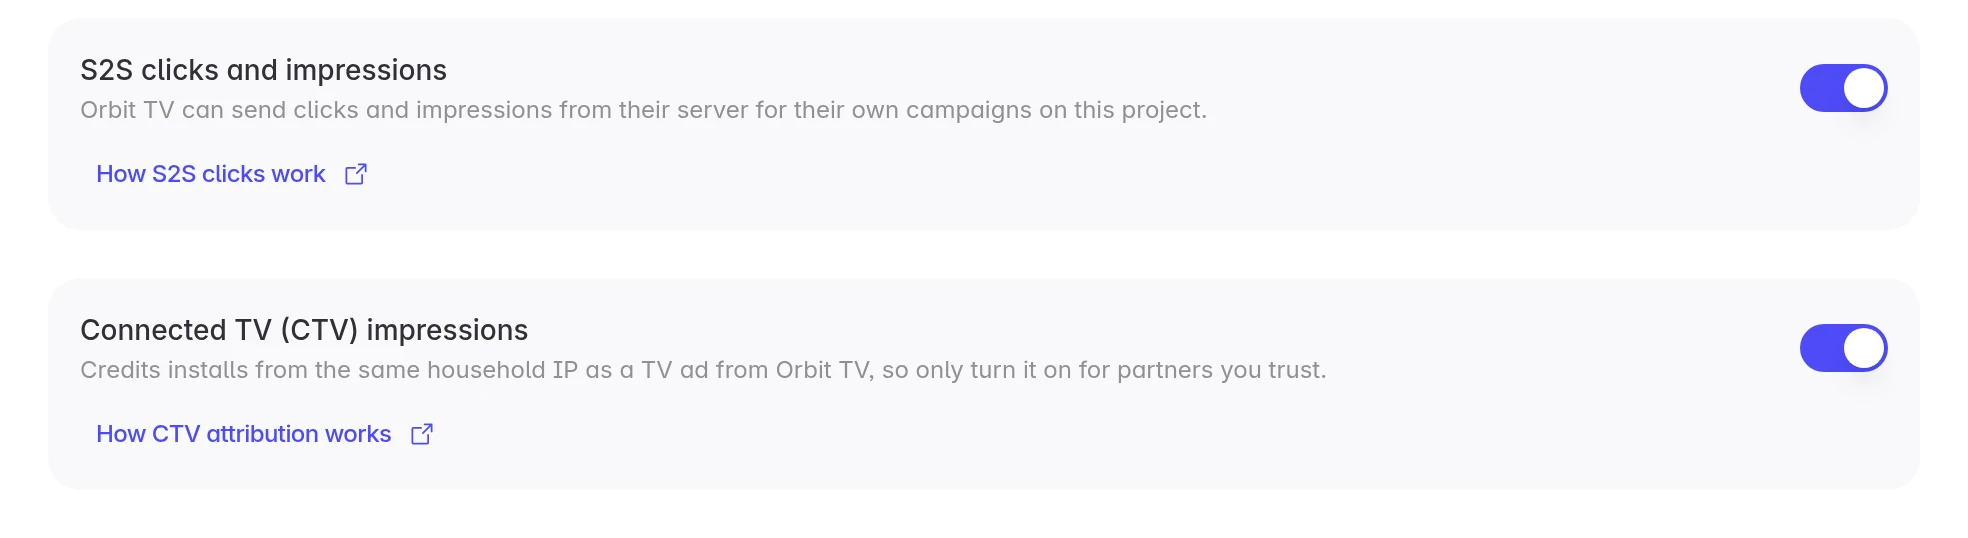
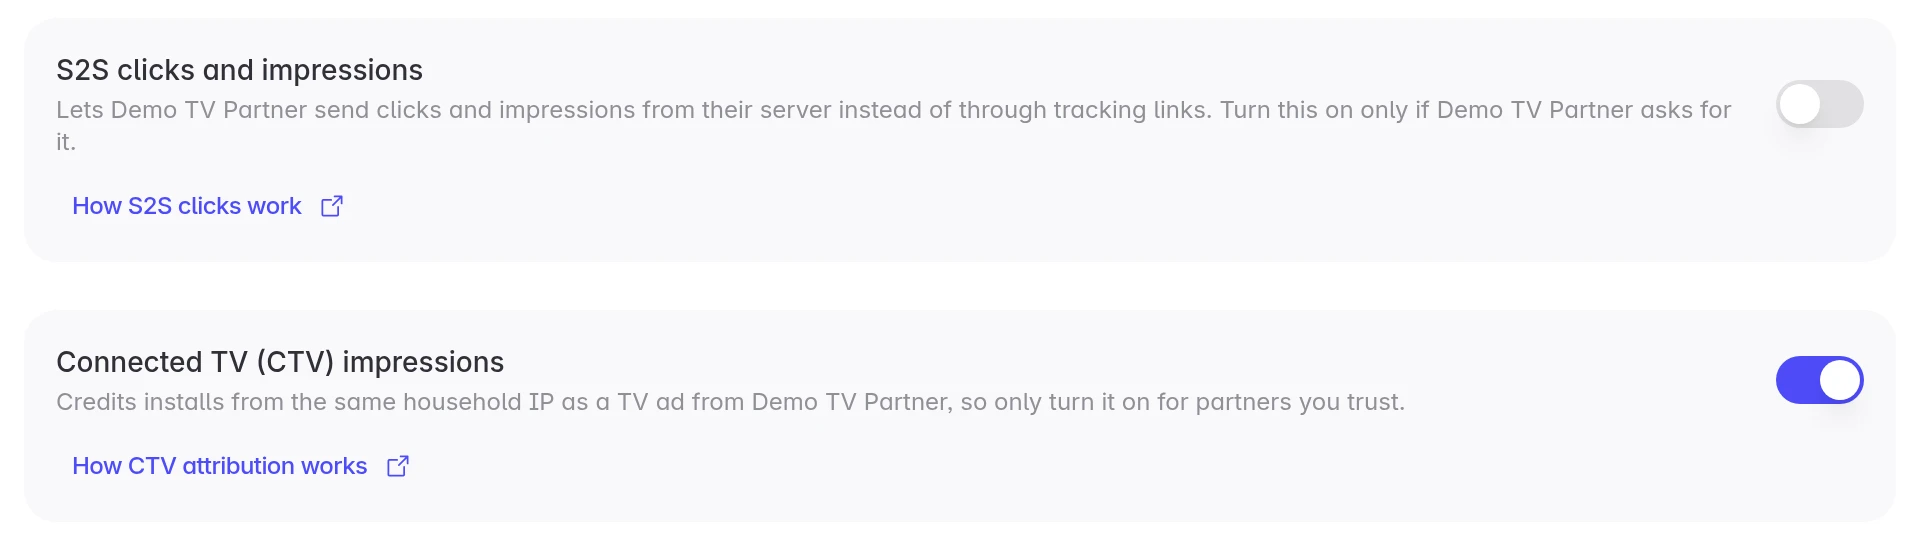
docs(ctv): CTV impressions no longer need S2S clicks on (LIN-5047) (#380)
* docs(ctv): CTV impressions no longer require S2S clicks to be on (LIN-5047)

* LIN-5047: CTV endpoint answers ctv_not_enabled, not partner_not_enabled

* LIN-5047: new CTV switch screenshot, disconnect clears CTV too

---------

diff --git a/api-reference/ctv-impressions.md b/api-reference/ctv-impressions.md
@@ -17,7 +17,7 @@ GET https://s2s.linkrunner.io/v1/ctv/impression?app_id={app_id}
 GET https://s2s.linkrunner.io/v1/ctv/impression?d={domain}
 ```
 
-The advertiser is identified by the app ID (or the tracking link's domain) and the campaign by `c`. The campaign must belong to your partner account. S2S traffic, view-through and CTV must all be on for you on this app. The advertiser turns them on.
+The advertiser is identified by the app ID (or the tracking link's domain) and the campaign by `c`. The campaign must belong to your partner account. View-through and CTV must both be on for you on this app. You don't need S2S clicks on. The advertiser turns them on.
 
 ## Authentication
 
@@ -108,14 +108,13 @@ The response is always JSON.
 | 400    | `impression_too_old`           | `impression_time` is more than 24 hours ago. A time in the future is treated as now.                                                                                                                      | No                       |
 | 400    | `invalid_viewthrough_lookback` | `vt_lookback` is `0`, negative, fractional, or not in hours or days.                                                                                                                                      | No                       |
 | 400    | `unknown_app`                  | No Linkrunner project has this app ID.                                                                                                                                                                    | No                       |
-| 400    | `ambiguous_app`                | More than one of the advertiser's projects with S2S on for you has this app ID and campaign code (for example test and live). Send `d` instead.                                                           | No                       |
+| 400    | `ambiguous_app`                | More than one of the advertiser's projects with CTV on for you has this app ID and campaign code (for example test and live). Send `d` instead.                                                           | No                       |
 | 400    | `unknown_domain`               | `d` is not a Linkrunner click domain.                                                                                                                                                                     | No                       |
 | 400    | `unknown_campaign`             | `c` does not match a campaign of that app or domain.                                                                                                                                                      | No                       |
 | 401    | `missing_token`                | No `X-Linkrunner-Token` header and no `lr_token` parameter.                                                                                                                                               | No                       |
 | 401    | `invalid_token`                | The token is wrong, revoked, or was rotated more than 24 hours ago, or your partner account is suspended.                                                                                                 | No                       |
-| 403    | `partner_not_enabled`          | The advertiser hasn't turned on S2S traffic for the partner that owns campaign `c`. See [Turn on S2S clicks for a partner](/affiliate-partners/turn-on-s2s-clicks).                                       | No                       |
-| 403    | `view_through_disabled`        | S2S traffic is on, but the advertiser hasn't turned on view-through for this partner. See [View-through attribution](/features/attribution-windows#view-through-attribution).                             | No                       |
-| 403    | `ctv_not_enabled`              | S2S traffic and view-through are on, but the advertiser hasn't turned on CTV for this partner on this app. See [Turn on CTV impressions](/affiliate-partners/turn-on-s2s-clicks#turn-on-ctv-impressions). | No                       |
+| 403    | `view_through_disabled`        | The advertiser hasn't turned on view-through for this partner. See [View-through attribution](/features/attribution-windows#view-through-attribution).                             | No                       |
+| 403    | `ctv_not_enabled`              | The advertiser hasn't turned on CTV impressions for this partner on this app. See [Turn on CTV impressions](/affiliate-partners/turn-on-s2s-clicks#turn-on-ctv-impressions). | No                       |
 | 404    | `s2s_disabled`                 | The S2S impression APIs are turned off.                                                                                                                                                                   | No                       |
 | 429    | `rate_limited`                 | Too many impressions for this campaign.                                                                                                                                                                   | Yes, after `Retry-After` |
 | 503    | `unavailable`                  | A temporary error.                                                                                                                                                                                        | Yes, after `Retry-After` |

diff --git a/affiliate-partners/ctv-impressions.md b/affiliate-partners/ctv-impressions.md
@@ -17,12 +17,11 @@ Your **server** reports each impression with the TV's IP address and user agent.
 
 ## Before you start
 
-CTV is off by default. The advertiser turns on three switches for your partner account, on each app. Changes take up to 5 minutes to apply.
+CTV is off by default. The advertiser turns on two switches for your partner account, on each app. Changes take up to 5 minutes to apply.
 
 | Switch                             | Where the advertiser turns it on                                                                          | Rejection while off     |
 | ---------------------------------- | --------------------------------------------------------------------------------------------------------- | ----------------------- |
-| **S2S clicks and impressions**     | **Integrations → Affiliate Partners → Configure**                                                         | `partner_not_enabled`   |
-| **Connected TV (CTV) impressions** | Under the S2S switch, same page ([steps](/affiliate-partners/turn-on-s2s-clicks#turn-on-ctv-impressions)) | `ctv_not_enabled`       |
+| **Connected TV (CTV) impressions** | **Integrations → Affiliate Partners → Configure** ([steps](/affiliate-partners/turn-on-s2s-clicks#turn-on-ctv-impressions)) | `ctv_not_enabled`       |
 | **View-through**, with its window  | **Settings → Attribution Windows** ([how](/features/attribution-windows#view-through-attribution))        | `view_through_disabled` |
 
 Send your advertiser the [CTV attribution guide](/features/ctv-attribution).
@@ -192,7 +191,7 @@ The [CTV Impression API reference](/api-reference/ctv-impressions) lists every p
 | Response or symptom                                               | What to do                                                                                                                                                                                                |
 | ----------------------------------------------------------------- | --------------------------------------------------------------------------------------------------------------------------------------------------------------------------------------------------------- |
 | `missing_ip`, `invalid_ip`, `datacenter_ip`, `missing_ua`         | Send the TV's own public IP address and user agent, not your ad server's. Private (`192.168.x.x`, `10.x.x.x`), carrier-grade NAT (`100.64.0.0/10`), loopback and cloud or hosting addresses are rejected. |
-| `partner_not_enabled`, `ctv_not_enabled`, `view_through_disabled` | Ask the advertiser to turn on the missing switch. See [Before you start](#before-you-start).                                                                                                              |
+| `ctv_not_enabled`, `view_through_disabled` | Ask the advertiser to turn on the missing switch. See [Before you start](#before-you-start).                                                                                                              |
 | Accepted, but no installs credited                                | Check each rule in [How it works](#how-it-works), and that the impression arrived before the install.                                                                                                     |
 
 **Need help?** Contact <support@linkrunner.io>

diff --git a/features/ctv-attribution.md b/features/ctv-attribution.md
@@ -31,21 +31,15 @@ Turn on CTV only for partners you trust. A partner that reports impressions it d
 
 ## Turn it on for a partner
 
-You need three switches on, per partner and per app. Only admins and managers can change them. Changes take up to 5 minutes to apply.
+You need two switches on, per partner and per app. Only admins and managers can change them. Changes take up to 5 minutes to apply.
 
 <Steps>
 
-<Step title="Turn on S2S clicks and impressions">
-
-Go to **Integrations → Affiliate Partners**, click **Configure** on the partner's card, and turn on **S2S clicks and impressions**. See [Turn on S2S clicks for a partner](/affiliate-partners/turn-on-s2s-clicks) for the steps.
-
-</Step>
-
 <Step title="Turn on Connected TV (CTV) impressions">
 
-On the same page, turn on **Connected TV (CTV) impressions** under the S2S switch. It stays disabled until S2S is on. Turning S2S off also turns CTV off.
+Go to **Integrations → Affiliate Partners**, click **Configure** on the partner's card, and turn on **Connected TV (CTV) impressions**. This switch is separate from **S2S clicks and impressions**. You don't need to turn S2S on first.
 
-![The partner's Configure page with S2S clicks and impressions and Connected TV (CTV) impressions both on](/images/ctv-attribution/ctv-switches-on.webp)
+![The partner's Configure page with S2S clicks and impressions off and Connected TV (CTV) impressions on](/images/ctv-attribution/ctv-switches-on.webp)
 
 </Step>
 
@@ -103,7 +97,7 @@ CTV installs appear in your campaign table as installs and as **View Through Att
 
 To stop CTV credit for a partner, turn off **Connected TV (CTV) impressions** on the partner's **Configure** page. Within 5 minutes Linkrunner rejects the partner's new CTV impressions. Installs already credited keep their attribution.
 
-You can also turn off view-through for the partner in **Settings → Attribution Windows**, which stops all impression credit for that partner. Turning off S2S clicks and impressions turns CTV off too.
+You can also turn off view-through for the partner in **Settings → Attribution Windows**, which stops all impression credit for that partner. Turning **S2S clicks and impressions** on or off does not change CTV.
 
 ## Troubleshooting
 
@@ -113,7 +107,6 @@ You can also turn off view-through for the partner in **Settings → Attribution
 
 The partner sees one of these reasons in the response:
 
-- `partner_not_enabled`: S2S clicks and impressions is off for this partner.
 - `ctv_not_enabled`: the CTV switch is off for this partner.
 - `view_through_disabled`: view-through is off for this partner in **Settings → Attribution Windows**.
 
@@ -135,7 +128,7 @@ Check these in order:
 
 <Accordion title="I don't see a CTV impression URL">
 
-The URL shows only for a partner's campaigns once CTV is on. Check that **S2S clicks and impressions** and **Connected TV (CTV) impressions** are both on for that partner, and that the partner is connected in **Integrations → Affiliate Partners**.
+The URL shows only for a partner's campaigns once CTV is on. Check that **Connected TV (CTV) impressions** is on for that partner, and that the partner is connected in **Integrations → Affiliate Partners**.
 
 </Accordion>
 

diff --git a/affiliate-partners/turn-on-s2s-clicks.md b/affiliate-partners/turn-on-s2s-clicks.md
@@ -72,15 +72,15 @@ Each request to the S2S click API must carry the partner's own secret token, so 
 
 ## Turn on CTV impressions
 
-If the partner reports [connected TV (CTV) impressions](/affiliate-partners/ctv-impressions), turn on the **Connected TV (CTV) impressions** switch under the S2S switch on the same page. S2S clicks must be on first. CTV installs are credited only when view-through is also on for the partner. For all three switches, how much to trust CTV matches, and results, see the [CTV attribution guide](/features/ctv-attribution).
+If the partner reports [connected TV (CTV) impressions](/affiliate-partners/ctv-impressions), turn on the **Connected TV (CTV) impressions** switch on the same page. It is separate from the S2S switch, so S2S clicks don't need to be on. CTV installs are credited only when view-through is also on for the partner. For both switches, how much to trust CTV matches, and results, see the [CTV attribution guide](/features/ctv-attribution).
 
 Once CTV is on, the dashboard shows the partner's **CTV impression URL** on their campaigns, so you can copy it and send it to the partner.
 
 ## Turn it off
 
-Turn the same switch off. There is no confirmation. Within 6 minutes, the partner's server clicks and impressions are rejected, and their tracking links go back to recording the IP of whoever calls them. Their tracking links keep working. Turning S2S clicks off also turns CTV impressions off.
+Turn the same switch off. There is no confirmation. Within 6 minutes, the partner's server clicks and impressions are rejected, and their tracking links go back to recording the IP of whoever calls them. Their tracking links keep working. Turning S2S clicks off does not turn CTV impressions off.
 
-Disconnecting the partner also turns S2S clicks off. If you reconnect them later, turn it on again.
+Disconnecting the partner also turns S2S clicks and CTV impressions off. If you reconnect them later, turn them on again.
 
 ## Troubleshooting
 

diff --git a/affiliate-partners/overview.md b/affiliate-partners/overview.md
@@ -51,7 +51,7 @@ If you report impressions through [S2S impressions](/affiliate-partners/s2s-impr
 
 - **Off by default.** The advertiser turns on view-through for your partner account in **Settings → Attribution Windows** and sets your window, from 1 to 24 hours. See [View-through attribution](/features/attribution-windows#view-through-attribution).
 - **Device ID first.** An S2S impression must carry the installing device's `gaid` or `idfa`. A CTV impression is matched on the household IP address instead, on Android and iOS, and ranks below S2S impressions.
-- **CTV has its own switch.** The advertiser also turns on CTV for your partner account, under S2S traffic in **Integrations → Affiliate Partners → Configure**.
+- **CTV has its own switch.** The advertiser also turns on CTV for your partner account, in **Integrations → Affiliate Partners → Configure**. It does not depend on the S2S clicks switch.
 - **Clicks always win.** An impression is credited only when no click, from any source, can be credited.
 
 The postback carries the `tid` you sent on the impression, and `{touch_type}` is `impression` instead of `click`, so you can tell view-through installs apart.
